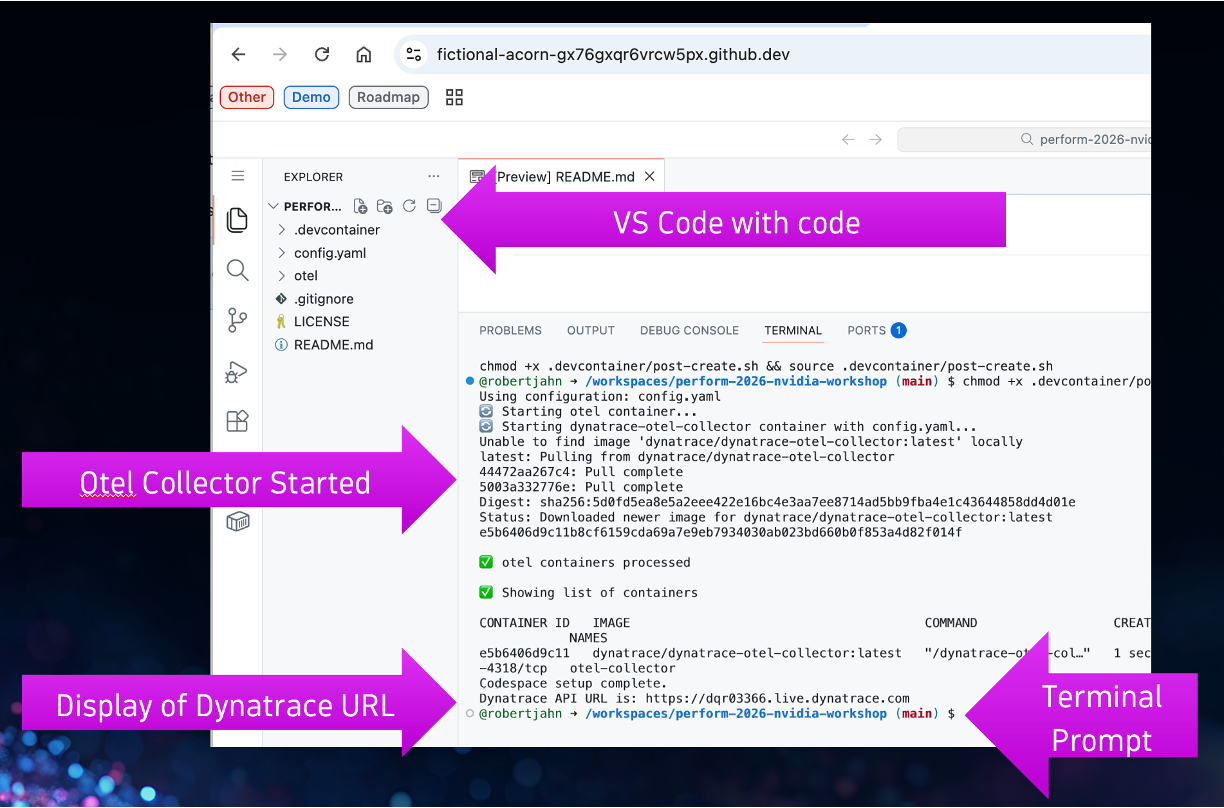
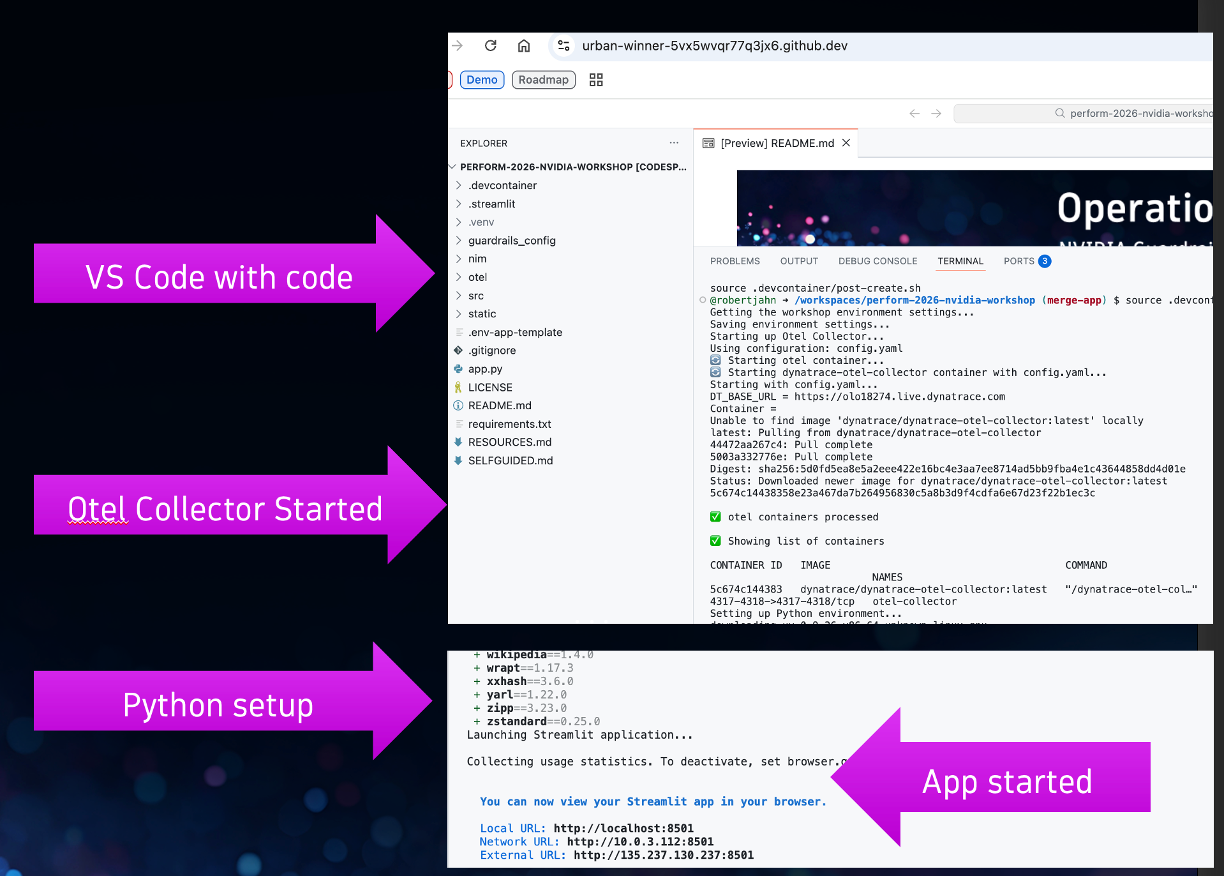
update guide to remove python setup

diff --git a/README.md b/README.md
@@ -1,6 +1,8 @@
 <img alt="Workshop" src="static/nvidia-workshop-header.png">
 
-This 90-minute instructor-led session where you'll explore a chat-bot app built with NVIDIA NeMo for training, safety and optimization, and NVIDIA NIM GPU-accelerated inference microservices for AI models. Learn how to use NeMo Agent Toolkit for coordinating and profiling agent workflows; and NeMo Guardrails to keep agentic AI applications reliable and aligned. With Dynatrace monitoring, you'll track real-time performance and cost, follow end-to-end traces from prompt to response, and find the root cause of errors across the LLM chain and connected services. Each component is introduced clearly and used hands-on so you can repeat the steps in your own environment.
+This 90-minute instructor-led session where you'll explore a chat-bot app built with NVIDIA NeMo for training, safety and optimization, and NVIDIA NIM GPU-accelerated inference microservices for AI models. Learn how to use NeMo Agent Toolkit for coordinating and profiling agent workflows; and NeMo Guardrails to keep agentic AI applications reliable and aligned. 
+
+With Dynatrace monitoring, you'll track real-time performance and cost, follow end-to-end traces from prompt to response, and find the root cause of errors across the LLM chain and connected services. Each component is introduced clearly and used hands-on so you can repeat the steps in your own environment.
 
 ## Setup
 
@@ -20,49 +22,34 @@ This 90-minute instructor-led session where you'll explore a chat-bot app built 
 
 3. **Verify Start codespace**
 
-    This will take a few minutes to complete.  Once codespace is completed the startup, you should see this:
+    This will take a few minutes to complete and will perform the following:
+    * Retrieve and save required environment settings
+    * Start an OpenTelemetry collector
+    * Create Python virtual environment and install Python dependencies
+    * Start the sample web app
+    
+    Once codespace is completed the startup, you should see this:
 
     <img alt="Workshop setup" src="static/codespace-complete.png" width="75%">
 
+3. **View app in browser**
 
-## 🔧 Prepare environment
+    The app will be available by a URL that is proxied by GitHub codespaces.  For example, the URL may look like this `https://fluffy-garbanzo-xrvxjrwpx753vwx-8501.app.github.dev`
 
-From the terminal prompt run these commands.
+    To view app, follow this guide:
 
-1. **Install Python virtual environment**
+    <img alt="Workshop setup" src="static/codespace-open-app.png" width="75%">
 
-    ```bash
-    curl -LsSf https://astral.sh/uv/install.sh | sh
-    ```
-
-2. **Create Python virtual environment**
-
-    ```bash
-    uv venv --python 3.13 .venv
-    source .venv/bin/activate
-    ```
-
-3. **Install Python dependencies**
-
-    ```bash
-    uv pip install -r requirements.txt
-    ```
 
 ## 🚀 Run the Application locally using Python
 
-1. **Start sample App**
+If you need to restart the sample App, then run the following commands
 
-    Start app which will open the web UI. 
-
-    ```bash
-    streamlit run app.py
-    ```
-
-2. **View app in browser**
-
-The app will be available by a URL that is proxied by GitHub codespaces. 
-    
-For example, the URL may look like this `https://fluffy-garbanzo-xrvxjrwpx753vwx-8501.app.github.dev`
+```bash
+cd /workspaces/perform-2026-nvidia-workshop
+source .venv/bin/activate
+streamlit run app.py
+```
 
 ## 📄 Example prompts
 
